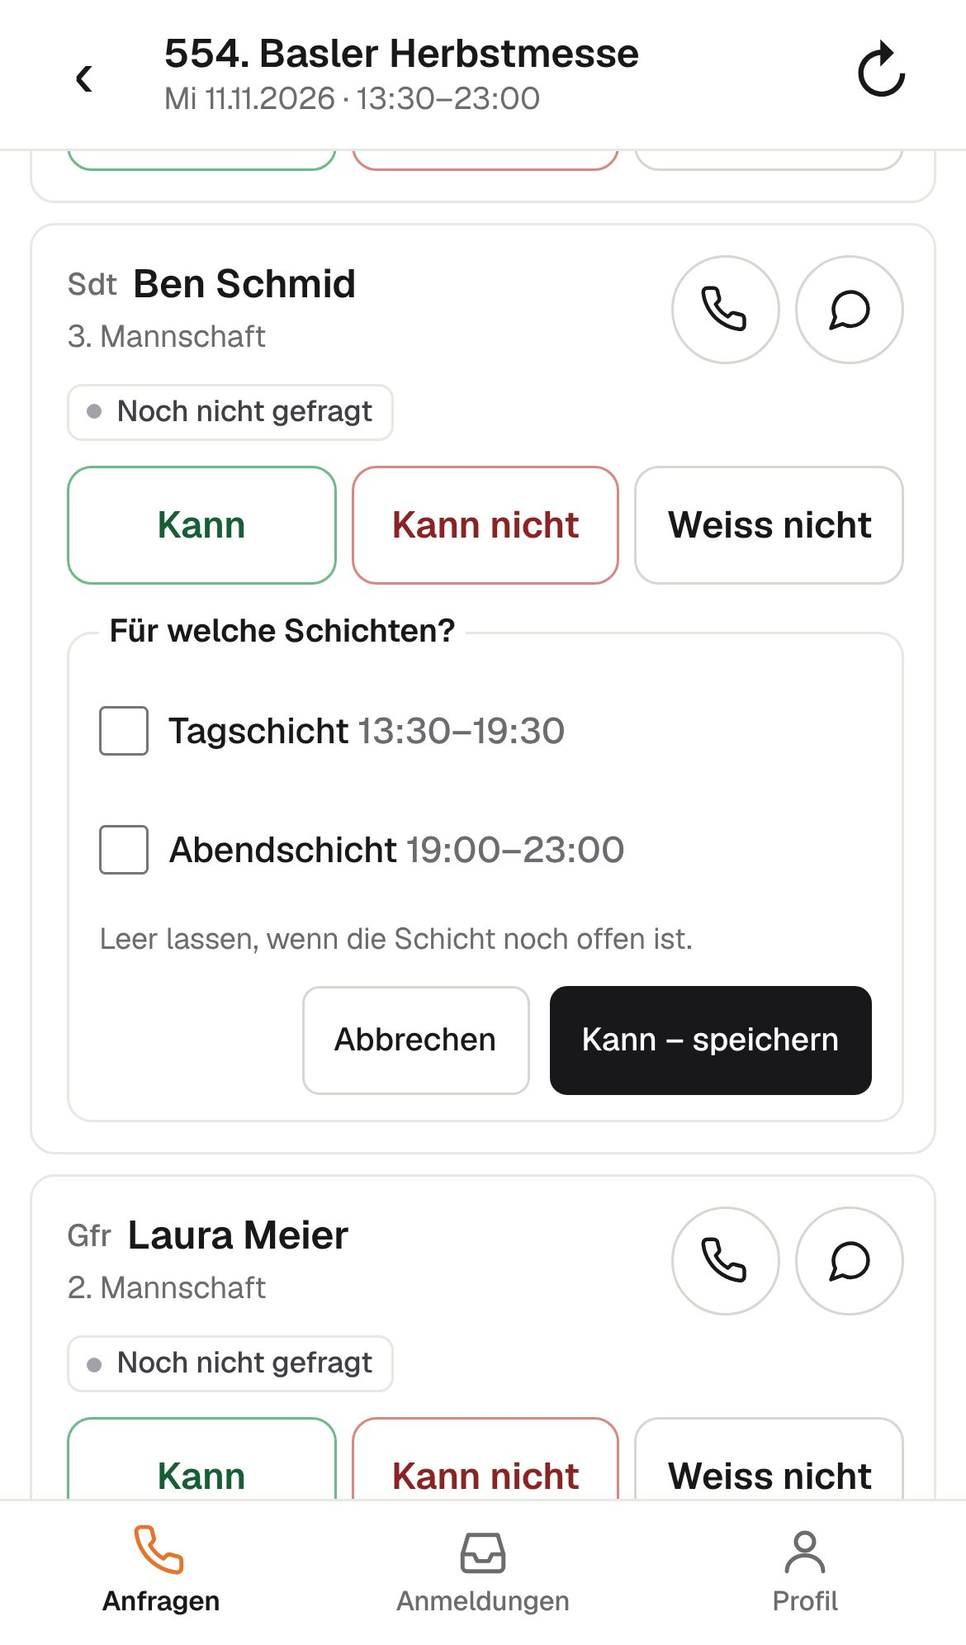
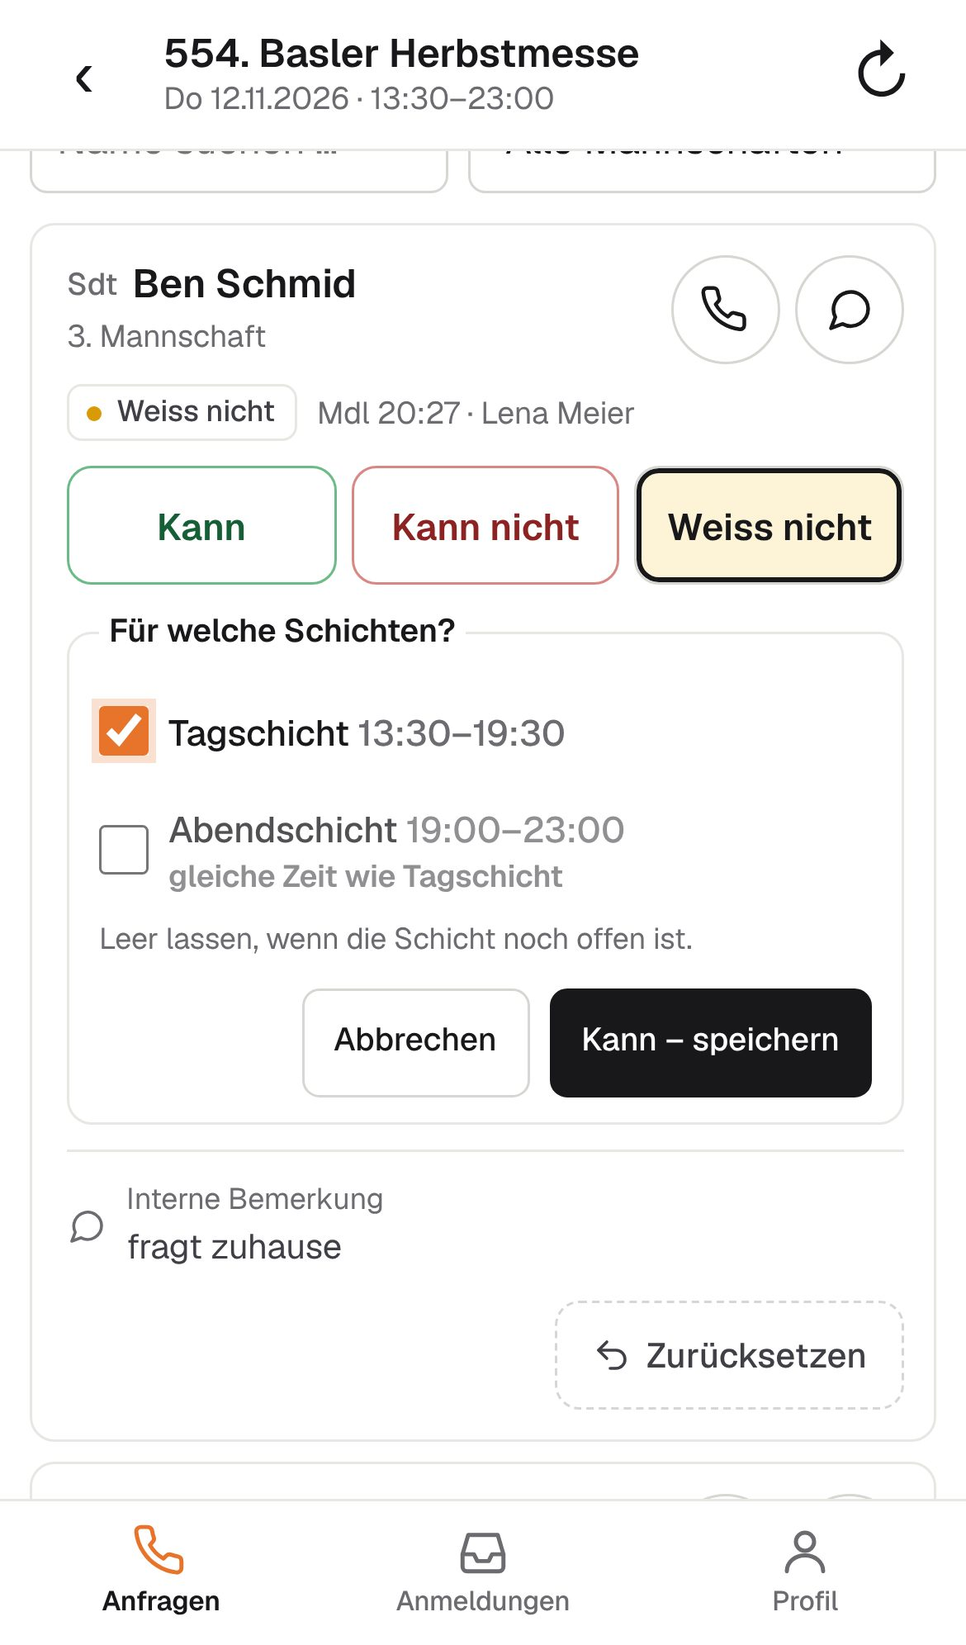
Rückmeldungen: andere Schicht zeigt, ob sie sich zeitlich überschneidet
- Neue Symbole: – auf grauem Feld (gleiche Zeit, geht nicht) und + mit grünem Rand (zeitlich möglich)
- Überschneidung aus Datum und Zeit der Schichten berechnet, auch über Mitternacht
- Kleines Fenster beim Darüberfahren mit allen Schichten, Tag, Zeit und Besetzung
- Schichtauswahl (Handy-App und Kontaktversuch) zeigt «gleiche Zeit wie …»
- Legende, Excel/CSV, Handbuch und Bilder nachgeführt

Claude-Session: https://claude.ai/code/session_01EBemd3cAmabGCjsd9BTB3Q

diff --git a/src/services/feedback.js b/src/services/feedback.js
@@ -31,6 +31,32 @@ function detailOf(c) {
   return null;
 }
 
+// Zeitraum einer Schicht als vergleichbare Texte (YYYY-MM-DDTHH:MM); ohne Ende gilt das Tagesende, ohne Beginn null
+function shiftSpan(sh) {
+  if (!sh?.starts_at) return null;
+  return { from: sh.starts_at, to: sh.ends_at || `${sh.starts_at.slice(0, 10)}T23:59` };
+}
+
+/** Überschneiden sich zwei Schichten zeitlich? null = unbekannt (eine Schicht hat keine Zeit) */
+function shiftsOverlap(a, b) {
+  const x = shiftSpan(a);
+  const y = shiftSpan(b);
+  if (!x || !y) return null;
+  return x.from < y.to && y.from < x.to;
+}
+
+/**
+ * Andere Schicht: Kann die Person zeitlich trotzdem in diese Schicht?
+ * ueberschneidung = mindestens eine ihrer Schichten liegt in derselben Zeit, frei = keine Überschneidung, null = Zeiten fehlen
+ */
+function otherShiftDetail(shift, mineIds, eventShifts) {
+  const mine = eventShifts.filter((sh) => mineIds.has(sh.id));
+  const res = mine.map((sh) => shiftsOverlap(shift, sh));
+  if (res.includes(true)) return 'ueberschneidung';
+  if (res.length && res.every((r) => r === false)) return 'frei';
+  return null;
+}
+
 /** Zustand einer Person für einen Einsatz aus Anmeldung und Anfrage ableiten */
 function cellState(reg, inq) {
   const c = baseState(reg, inq);
@@ -126,14 +152,23 @@ function matrix({ team = '', period = '3m', sort = 'rang', includeDrafts = false
     const cells = columns.map((col) => {
       const base = byEvent.get(col.event.id);
       let state = base.state;
+      let detail = base.detail;
+      let mine = null;
       if (col.shift && state === 'an') {
-        const mine = shiftsOf(base.reg, col.event);
+        mine = shiftsOf(base.reg, col.event);
         state = !mine.size ? 'schicht_offen' : mine.has(col.shift.id) ? 'an' : 'andere';
+        if (state === 'andere') detail = otherShiftDetail(col.shift, mine, col.event.shifts);
+        else if (state !== base.state) detail = null;
       }
       colTotals[col.key][state]++;
       // zählt zur Besetzung dieser Schicht (gleiche Regel wie e.istByShift)
       const counts = Boolean(col.shift && base.reg && REG_COUNTING.includes(base.reg.status) && assigned.get(base.reg.id)?.has(col.shift.id));
-      return { ...base, state, detail: state === base.state ? base.detail : null, shiftId: col.shift?.id || null, counts };
+      // für das Fenster beim Darüberfahren: in welchen Schichten die Person ist, eingeteilt oder nur gewünscht
+      const mineInfo = mine && mine.size ? {
+        ids: [...mine], kind: assigned.has(base.reg.id) ? 'eingeteilt' : 'gewünscht',
+        clash: col.event.shifts.filter((sh) => !mine.has(sh.id) && otherShiftDetail(sh, mine, col.event.shifts) === 'ueberschneidung').map((sh) => sh.id),
+      } : null;
+      return { ...base, state, detail, mine: mineInfo, shiftId: col.shift?.id || null, counts };
     });
     return { person: p, cells, eventCells, openCount: eventCells.filter((c) => c.state === 'offen').length };
   });
@@ -160,10 +195,11 @@ function shiftChoices(eventIds) {
   // Bei Schichten an verschiedenen Tagen steht der Tag vor der Zeit
   const multi = new Set(db.all(`SELECT id, date_from, date_to FROM events WHERE id IN (${ph})`, ...ids).filter(isMultiDay).map((e) => e.id));
   for (const sh of db.all(`SELECT id, event_id, name, starts_at, ends_at FROM shifts WHERE event_id IN (${ph}) ORDER BY sort, starts_at, id`, ...ids)) {
-    (out[sh.event_id] ||= []).push({ id: sh.id, name: sh.name, time: fmtShiftWhen(sh, multi.has(sh.event_id)) });
+    const sp = shiftSpan(sh);
+    (out[sh.event_id] ||= []).push({ id: sh.id, name: sh.name, time: fmtShiftWhen(sh, multi.has(sh.event_id)), from: sp?.from || '', to: sp?.to || '' });
   }
   for (const k of Object.keys(out)) if (out[k].length < 2) delete out[k];
   return out;
 }
 
-module.exports = { matrix, cellState, upcomingEvents, shiftChoices, PERIODS };
+module.exports = { matrix, cellState, shiftsOverlap, otherShiftDetail, upcomingEvents, shiftChoices, PERIODS };

diff --git a/public/js/app.js b/public/js/app.js
@@ -784,9 +784,12 @@
       for (const sh of list) {
         const l = document.createElement('label'); l.className = 'check';
         const c = document.createElement('input'); c.type = 'checkbox'; c.name = 'shift_ids'; c.value = sh.id; c.checked = String(sh.id) === btn.dataset.shift;
-        l.append(c, ` ${sh.name}${sh.time ? ` (${sh.time})` : ''}`);
+        Object.assign(c.dataset, { from: sh.from || '', to: sh.to || '', name: sh.name });
+        const hint = document.createElement('span'); hint.className = 'shift-clash'; hint.hidden = true;
+        l.append(c, ` ${sh.name}${sh.time ? ` (${sh.time})` : ''}`, hint);
         shiftBox.append(l);
       }
+      markShiftClash(shiftBox);
       dlg.dataset.hasShifts = list.length ? '1' : '';
       toggleShiftField(dlg);
     }
@@ -1175,6 +1178,52 @@
   const openHashTarget = () => { const id = decodeURIComponent(location.hash.slice(1)); const d = id && document.getElementById(id); if (d && d.tagName === 'DETAILS') d.open = true; };
   openHashTarget();
   window.addEventListener('hashchange', openHashTarget);
+  // Fenster beim längeren Darüberfahren (data-tip, z. B. Rückmeldungen: Schichten mit Zeiten). Inhalt ist serverseitig escaped.
+  (() => {
+    if (!window.matchMedia('(hover: hover)').matches) return;
+    let tip = null; let timer = null; let cur = null;
+    const hide = () => { clearTimeout(timer); timer = null; cur = null; if (tip) tip.hidden = true; };
+    const show = (el) => {
+      if (!tip) { tip = document.createElement('div'); tip.className = 'hover-tip'; tip.setAttribute('role', 'tooltip'); document.body.appendChild(tip); }
+      tip.innerHTML = el.dataset.tip;
+      tip.hidden = false;
+      const r = el.getBoundingClientRect();
+      const w = tip.offsetWidth; const hgt = tip.offsetHeight;
+      let left = Math.min(Math.max(8, r.left + r.width / 2 - w / 2), window.innerWidth - w - 8);
+      let top = r.bottom + 6;
+      if (top + hgt > window.innerHeight - 8) top = Math.max(8, r.top - hgt - 6);
+      tip.style.left = `${left + window.scrollX}px`;
+      tip.style.top = `${top + window.scrollY}px`;
+    };
+    document.addEventListener('mouseover', (ev) => {
+      const el = ev.target.closest('[data-tip]');
+      if (el === cur) return;
+      hide();
+      if (!el || !el.dataset.tip) return;
+      cur = el;
+      timer = setTimeout(() => show(el), 450);
+    });
+    document.addEventListener('mouseleave', hide);
+    document.addEventListener('scroll', hide, true);
+    document.addEventListener('mousedown', hide);
+    document.addEventListener('keydown', hide);
+  })();
+  // Schichtauswahl: bei nicht gewählten Schichten zeigen, wenn sie zur selben Zeit wie eine gewählte liegen
+  function markShiftClash(box) {
+    const boxes = $$('input[name="shift_ids"]', box);
+    const on = boxes.filter((b) => b.checked && b.dataset.from);
+    boxes.forEach((b) => {
+      const hint = b.parentElement.querySelector('.shift-clash');
+      if (!hint) return;
+      const hit = !b.checked && b.dataset.from ? on.filter((o) => b.dataset.from < o.dataset.to && o.dataset.from < b.dataset.to) : [];
+      hint.hidden = !hit.length;
+      hint.textContent = hit.length ? ` – gleiche Zeit wie ${hit.map((o) => o.dataset.name).join(', ')}` : '';
+    });
+  }
+  document.addEventListener('change', (ev) => {
+    const box = ev.target.closest('[data-shift-options]');
+    if (box && ev.target.name === 'shift_ids') markShiftClash(box);
+  });
   const enhanceAll = (root = document) => { rememberFold(root); $$('select[data-search]', root).forEach(enhanceSelect); cardAll(root.closest ? (root.closest('table') || root) : root); };
   enhanceAll();
   new MutationObserver((muts) => {

diff --git a/test/flow.test.js b/test/flow.test.js
@@ -175,6 +175,28 @@ test('Rückmeldungen: Spalte pro Schicht und Zusage mit Schicht', () => {
   assert.deepEqual(Object.keys(feedback.shiftChoices([offen])), [String(offen)]);
 });
 
+test('Rückmeldungen: andere Schicht zur selben Zeit oder zeitlich möglich', () => {
+  const { anna, offen } = setup();
+  const inquiries = require('../src/services/inquiries');
+  const feedback = require('../src/services/feedback');
+  const d = db.one('SELECT date FROM events WHERE id = ?', offen).date;
+  const [tag] = events.shiftsOf(offen);
+  db.run('UPDATE shifts SET starts_at = ?, ends_at = ? WHERE id = ?', `${d}T08:00`, `${d}T12:00`, tag.id);
+  events.addShift(offen, { name: 'Mittag', date: d, start: '11:00', end: '14:00' }, system);
+  events.addShift(offen, { name: 'Nacht', date: d, start: '22:00', end: '02:00' }, system);
+  const [, mittag, nacht] = events.shiftsOf(offen);
+  inquiries.addAttempt(offen, anna, { channel: 'telefon', result: 'zugesagt', shift_ids: [String(mittag.id)] }, system);
+  const cells = () => feedback.matrix({}).rows.find((r) => r.person.id === anna).cells.filter((c) => c.eventId === offen);
+  assert.deepEqual(cells().map((c) => [c.state, c.detail]), [['andere', 'ueberschneidung'], ['an', null], ['andere', 'frei']]);
+  assert.deepEqual(cells()[1].mine, { ids: [mittag.id], kind: 'eingeteilt', clash: [tag.id] });
+  // Nachtschicht über Mitternacht und Schichten an anderen Tagen
+  assert.equal(feedback.shiftsOverlap(nacht, { starts_at: `${addDays(d, 1)}T01:00`, ends_at: `${addDays(d, 1)}T06:00` }), true);
+  assert.equal(feedback.shiftsOverlap(tag, { starts_at: `${addDays(d, 1)}T08:00`, ends_at: `${addDays(d, 1)}T12:00` }), false);
+  assert.equal(feedback.shiftsOverlap(tag, { starts_at: `${d}T12:00`, ends_at: `${d}T13:00` }), false, 'direkt danach geht');
+  assert.equal(feedback.shiftsOverlap(tag, { starts_at: null }), null, 'ohne Zeit unbekannt');
+  assert.equal(feedback.shiftChoices([offen])[offen][1].from, `${d}T11:00`);
+});
+
 test('Anfragen: alles für eine Person bei einem Einsatz zurücksetzen', () => {
   const { anna, offen } = setup();
   const inquiries = require('../src/services/inquiries');

diff --git a/public/css/ruhig.css b/public/css/ruhig.css
@@ -433,3 +433,25 @@ tr.group-row strong { font-weight: 600; }
 .empty-state h2 { margin: 2px 0 4px; font-size: 15px; font-weight: 600; }
 .empty-state p { margin: 0; color: var(--muted); font-size: 13.5px; line-height: 1.5; }
 @media (max-width: 760px) { .empty-state { padding: 20px; column-gap: 14px; } }
+
+/* Rückmeldungen: andere Schicht – gleiche Zeit (geht nicht) oder zeitlich möglich */
+.fb-andere.fb-d-ueberschneidung { background: var(--border-soft); color: var(--muted); border-color: var(--border-strong); font-weight: 800; }
+.fb-andere.fb-d-frei { background: var(--card); color: var(--green); border: 1.5px dotted var(--green); font-weight: 800; }
+
+/* Fenster beim längeren Darüberfahren */
+.hover-tip { position: absolute; z-index: 60; max-width: 340px; padding: 10px 12px; border-radius: 10px; background: var(--card); color: var(--text); border: 1px solid var(--border-strong); box-shadow: 0 8px 24px rgba(0, 0, 0, .18); font-size: 12.5px; line-height: 1.4; pointer-events: none; display: flex; flex-direction: column; gap: 2px; }
+.hover-tip[hidden] { display: none; }
+.hover-tip strong { font-size: 13px; }
+.hover-tip .tip-sub, .hover-tip .tip-last, .hover-tip .tip-hint { color: var(--muted); }
+.hover-tip .tip-state { font-weight: 600; margin-top: 2px; }
+.hover-tip .tip-hint { font-size: 11.5px; margin-top: 4px; }
+.tip-shifts { list-style: none; margin: 6px 0 2px; padding: 0; display: grid; grid-template-columns: auto auto auto auto; gap: 3px 10px; align-items: baseline; }
+.tip-shifts li { display: contents; }
+.tip-shifts .tip-sh { font-weight: 600; }
+.tip-shifts .tip-when { font-variant-numeric: tabular-nums; white-space: nowrap; }
+.tip-shifts .tip-num { color: var(--muted); font-variant-numeric: tabular-nums; white-space: nowrap; }
+.tip-shifts li.is-here > span { color: var(--orange-dark, var(--orange)); }
+.tip-tag { font-style: normal; font-size: 11px; font-weight: 600; white-space: nowrap; }
+.tip-mine { color: var(--green); }
+.tip-clash { color: var(--muted); }
+.shift-clash { color: var(--muted); font-size: 12px; font-weight: 600; }

diff --git a/src/routes/feedback.js b/src/routes/feedback.js
@@ -4,11 +4,14 @@ const db = require('../db');
 const feedback = require('../services/feedback');
 const history = require('../services/history');
 const { sendTable, wantsExport } = require('../lib/export');
-const { FEEDBACK } = require('../lib/labels');
+const { FEEDBACK, FEEDBACK_DETAIL } = require('../lib/labels');
 const h = require('../lib/view-helpers');
 const { flash } = h;
 
 const router = express.Router();
+
+// Export: bei «Andere Schicht» steht dabei, ob sie sich zeitlich überschneidet
+const cellLabel = (c) => (c.state === 'andere' && FEEDBACK_DETAIL[c.detail] ? FEEDBACK_DETAIL[c.detail].label : FEEDBACK[c.state].label);
 
 router.get('/rueckmeldungen', (req, res) => {
   const filters = {
@@ -23,7 +26,7 @@ router.get('/rueckmeldungen', (req, res) => {
       { label: 'Vorname', value: (r) => r.person.first_name },
       { label: 'Nachname', value: (r) => r.person.last_name },
       { label: 'Mannschaft', value: (r) => r.person.teams || '' },
-      ...data.columns.map((c, i) => ({ label: `${c.event.name} (${h.fmtEventDate(c.event, 'dm')})${c.shift ? ` – ${c.shift.name}` : ''}`, value: (r) => FEEDBACK[r.cells[i].state].label })),
+      ...data.columns.map((c, i) => ({ label: `${c.event.name} (${h.fmtEventDate(c.event, 'dm')})${c.shift ? ` – ${c.shift.name}` : ''}`, value: (r) => cellLabel(r.cells[i]) })),
     ];
     return sendTable(res, format, 'Rückmeldungen', cols, data.rows);
   }

diff --git a/public/js/handy.js b/public/js/handy.js
@@ -76,6 +76,23 @@
     if (cancel) { cancel.closest('[data-shift-panel]').hidden = true; }
   });
 
+  // ---------- Schichten wählen: zeigen, welche sich zeitlich mit den gewählten überschneiden ----------
+  document.addEventListener('change', (ev) => {
+    const panel = ev.target.closest('[data-shift-panel]');
+    if (!panel || !ev.target.matches('input[name="shift_ids"]')) return;
+    const boxes = $$('input[name="shift_ids"]', panel);
+    const on = boxes.filter((b) => b.checked && b.dataset.from);
+    boxes.forEach((b) => {
+      const hit = !b.checked && b.dataset.from ? on.filter((o) => b.dataset.from < o.dataset.to && o.dataset.from < b.dataset.to) : [];
+      const label = b.closest('label');
+      const hint = label.querySelector('[data-clash]');
+      if (!hint) return;
+      hint.hidden = !hit.length;
+      hint.textContent = hit.length ? `gleiche Zeit wie ${hit.map((o) => o.dataset.name).join(', ')}` : '';
+      label.classList.toggle('is-clash', hit.length > 0);
+    });
+  });
+
   // ---------- Suche nach Namen (sofort, ohne Neuladen) ----------
   const search = $('[data-h-search]');
   let filter = () => {};

diff --git a/public/css/handy.css b/public/css/handy.css
@@ -108,6 +108,9 @@ body.handy { background: var(--bg); color: var(--text); margin: 0; min-height: 1
 .hc-shifts legend { font-size: 13px; font-weight: 600; padding: 0 4px; }
 .hc-shifts .check { min-height: 40px; align-items: center; font-size: 14.5px; }
 .hc-shifts .check input { width: 20px; height: 20px; margin: 0; }
+.hc-shifts .hc-clash { display: block; font-size: 12.5px; font-weight: 600; color: var(--muted); }
+.hc-shifts .hc-clash[hidden] { display: none; }
+.hc-shifts .check.is-clash > span { opacity: .75; }
 .hc-hint { margin: 0; font-size: 12px; color: var(--muted); }
 .hc-shift-foot { display: flex; gap: 8px; justify-content: flex-end; margin-top: 6px; }
 .hc-shift-foot .btn { min-height: 44px; }

diff --git a/src/lib/labels.js b/src/lib/labels.js
@@ -66,6 +66,9 @@ const FEEDBACK_DETAIL = {
   telefon: { label: 'Angerufen, nicht erreicht', state: 'unsicher' },
   rueckfrage: { label: 'Rückfrage nötig', state: 'unsicher' },
   muendlich: { label: 'Mündlich gefragt, weiss es noch nicht', state: 'unsicher' },
+  // andere Schicht desselben Einsatzes: aus Datum und Zeit der Schichten berechnet
+  ueberschneidung: { label: 'Andere Schicht zur selben Zeit, geht nicht', state: 'andere' },
+  frei: { label: 'Andere Schicht, zeitlich auch möglich', state: 'andere' },
 };
 
 const FEEDBACK = {

diff --git a/docs/handbuch/handbuch.md b/docs/handbuch/handbuch.md
@@ -480,7 +480,7 @@ Die Antwort ist sofort gespeichert. Unten erscheint kurz eine Bestätigung, z. B
 
 ![Handy-App: Schichten bei «Kann»](bilder/48-handy-schichten.jpg)
 
-**Einsatz mit mehreren Schichten:** Nach **Kann** fragt die App, für welche Schichten die Person kann. Ankreuzen und **Kann – speichern** tippen. Ist die Schicht noch offen, nichts ankreuzen. Zuteilen geht später auch am Computer unter «Schichten».
+**Einsatz mit mehreren Schichten:** Nach **Kann** fragt die App, für welche Schichten die Person kann. Ankreuzen und **Kann – speichern** tippen. Liegt eine andere Schicht zur selben Zeit wie eine angekreuzte, steht darunter «gleiche Zeit wie …». Dasselbe zeigt am Computer das Fenster «Kontaktversuch erfassen». Ist die Schicht noch offen, nichts ankreuzen. Zuteilen geht später auch am Computer unter «Schichten».
 
 **Interne Bemerkung:** Nach einer Antwort steht in der Karte **Interne Bemerkung schreiben**. Ein Tipp darauf öffnet ein Textfeld, z. B. für «kommt erst ab 10 Uhr». **Bemerkung speichern** speichert sie. Danach steht die Bemerkung in der Karte. Ein Tipp darauf ändert sie. Ein leeres Feld löscht sie.
 
@@ -578,11 +578,15 @@ Die Seite **Rückmeldungen** beantwortet die wichtigste Frage der Aufgebotsstell
 - Mitglieder als Zeilen, Einsätze als Spalten. Kopfzeile und Namensspalte bleiben beim Scrollen stehen. In der ganzen Ansicht am Handy ist die Namensspalte schmal und zeigt nur Rang und Name. So sind mehr Schichten sichtbar.
 - Im Spaltenkopf jedes Einsatzes steht die Besetzung als Balken, z. B. «11 / 16». Sie zählt gleich wie der Reiter «Schichten» und die Übersicht: Anmeldungen mit Status Neu, Rückfrage oder Bestätigt. Die Warteliste zählt nicht.
 - **Symbole:** Die **Legende** direkt über der Tabelle erklärt alle Symbole (Tabelle unten). Sie ist immer sichtbar, in beiden Ansichten. Das Symbol zeigt immer nur den neuesten Stand.
-- **Wer hat das gesetzt?** Fährt man mit der Maus über ein Feld, steht dort der letzte Eintrag mit Name und Zeit, z. B. «Zuletzt: Anmeldung: Bestätigt – Lena Meier, heute 14:20 (4 Einträge im Verlauf)». Hat sich jemand selbst über das Formular gemeldet, steht «Person selbst».
+- **Kleines Fenster beim Darüberfahren:** Bleibt man kurz mit der Maus auf einem Feld, öffnet sich ein kleines Fenster. Die Ansicht wechselt dabei nicht. Das Fenster zeigt den Stand und den letzten Eintrag mit Name und Zeit, z. B. «Zuletzt: Anmeldung: Bestätigt – Lena Meier, heute 14:20 (4 Einträge)». Hat sich jemand selbst über das Formular gemeldet, steht «Person selbst».
+- **Schichten mit Zeiten:** Bei Einsätzen mit mehreren Schichten zeigt das Fenster alle Schichten mit Tag, Zeit und Besetzung. Die Schicht der Spalte ist orange. Bei der Person steht «eingeteilt» oder «gewünscht». Eine Schicht zur selben Zeit trägt den Hinweis «gleiche Zeit». Dasselbe Fenster erscheint auch über dem Spaltenkopf einer Schicht.
+
+![Fenster mit den Schichten und ihren Zeiten](bilder/56-rueckmeldungen-schichtzeiten.jpg)
 - Ein Klick auf ein Feld öffnet immer das Fenster für einen Kontaktversuch, auch bei ✓ oder ✕. Oben steht der aktuelle Stand (z. B. «An · Anmeldung: Bestätigt · Formular · gesetzt von Lena Meier, heute 14:20») mit einem Link zur Anmeldung. Darunter folgt der **Verlauf** (siehe unten). Dort lässt sich auch **«Unsicher – weiss es noch nicht»** eintragen oder mit **Alles zurücksetzen** neu beginnen. Erfasst man bei einer bestehenden Anmeldung «Abgesagt», wird sie als zurückgezogen markiert. «Zugesagt» macht eine zurückgezogene Anmeldung wieder aktiv.
 - Unten stehen pro Einsatz die Summen An · Ab · Unsicher · Offen.
 - Nach dem Speichern, «Verlauf löschen» oder «Alles zurücksetzen» bleibt die Seite an derselben Stelle stehen. Auch die Tabelle springt nicht nach oben oder links zurück.
-- **Einsätze mit mehreren Schichten** haben eine Spalte pro Schicht, mit eigener Besetzung (z. B. «Tagschicht 8 / 10 · 1 ohne Schicht»). «ohne Schicht» heisst: zugesagt, aber noch keiner Schicht zugeteilt. ✓ heisst: für diese Schicht angemeldet oder eingeteilt. – heisst: angemeldet, aber für eine andere Schicht. Ein gestricheltes ✓ heisst: zugesagt, aber die Schicht ist noch nicht festgelegt. Ab, Unsicher und Offen gelten für alle Schichten des Einsatzes.
+- **Einsätze mit mehreren Schichten** haben eine Spalte pro Schicht, mit eigener Besetzung (z. B. «Tagschicht 8 / 10 · 1 ohne Schicht»). «ohne Schicht» heisst: zugesagt, aber noch keiner Schicht zugeteilt. ✓ heisst: für diese Schicht angemeldet oder eingeteilt. Ein gestricheltes ✓ heisst: zugesagt, aber die Schicht ist noch nicht festgelegt. Ab, Unsicher und Offen gelten für alle Schichten des Einsatzes.
+- **Andere Schicht: geht es zeitlich?** Ist eine Person in einer anderen Schicht, rechnet die App aus Datum und Zeit, ob sie diese Schicht trotzdem machen kann. **–** auf grauem Feld heisst: Die Schicht liegt zur selben Zeit wie ihre Schicht. Die Person kann also nicht. **+** mit grünem, gepunktetem Rand heisst: Die Zeiten überschneiden sich nicht. Die Person könnte diese Schicht zusätzlich machen, z. B. an einem anderen Tag. Endet eine Schicht genau dann, wenn die andere beginnt, gilt das nicht als Überschneidung. Eine Nachtschicht über Mitternacht zählt bis zu ihrem Ende am nächsten Tag. Fehlt bei einer Schicht die Zeit, steht ein Punkt (·).
 - Klickt man in einer Schicht-Spalte auf ein offenes Feld und wählt **«Zugesagt»**, ist diese Schicht schon angekreuzt. Weitere Schichten lassen sich dazu wählen, oder man lässt die Auswahl leer und teilt später unter «Schichten» zu. Das gilt genauso beim Erfassen unter Einsatz › Anfragen und auf der Seite eines Mitglieds.
 
 **Die Symbole:**
@@ -599,7 +603,8 @@ Die Seite **Rückmeldungen** beantwortet die wichtigste Frage der Aufgebotsstell
 | Mündlich gefragt (sprechende Person) | Mündlich angefragt, weiss es noch nicht |
 | Rückfrage (!) | Anmeldung mit offener Frage, z. B. nachträglich «Nein» im Formular |
 | Offen | Noch keine Rückmeldung und noch nicht angefragt |
-| Andere Schicht (–) | Angemeldet, aber für eine andere Schicht dieses Einsatzes |
+| Andere Schicht, gleiche Zeit (– auf grauem Feld) | In einer anderen Schicht, die zur selben Zeit liegt. Die Person kann diese Schicht nicht machen |
+| Andere Schicht, zeitlich möglich (+ mit grünem Rand) | In einer anderen Schicht, die zu einer anderen Zeit liegt. Die Person könnte diese Schicht zusätzlich machen |
 | An, ohne Schicht (gestricheltes ✓) | Zugesagt, Schicht noch nicht festgelegt |
 
 ### Verlauf pro Person und Einsatz
@@ -1030,7 +1035,7 @@ Das Mitglied sieht die Bestätigungsseite erst, wenn die Anmeldung sicher gespei
 Doppelte Absendungen werden erkannt. Pro Person und Einsatz gibt es höchstens eine Anmeldung.
 
 **Wie sehe ich, wer jemanden schon angeschrieben oder einen Status geändert hat?**
-In den Rückmeldungen mit der Maus über das Feld fahren: Dort stehen der letzte Eintrag, der Name und die Zeit. Ein Klick öffnet den ganzen Verlauf mit allen Kontakten, Rückmeldungen und Statuswechseln.
+In den Rückmeldungen kurz mit der Maus auf dem Feld bleiben: Im kleinen Fenster stehen der letzte Eintrag, der Name und die Zeit. Ein Klick öffnet den ganzen Verlauf mit allen Kontakten, Rückmeldungen und Statuswechseln.
 
 **Ist man automatisch dabei, wenn man sich anmeldet?**
 Nein. Jede Anmeldung wird von der Aufgebotsstelle bestätigt. Erst dann erhält das Mitglied seine Anmeldebestätigung.
